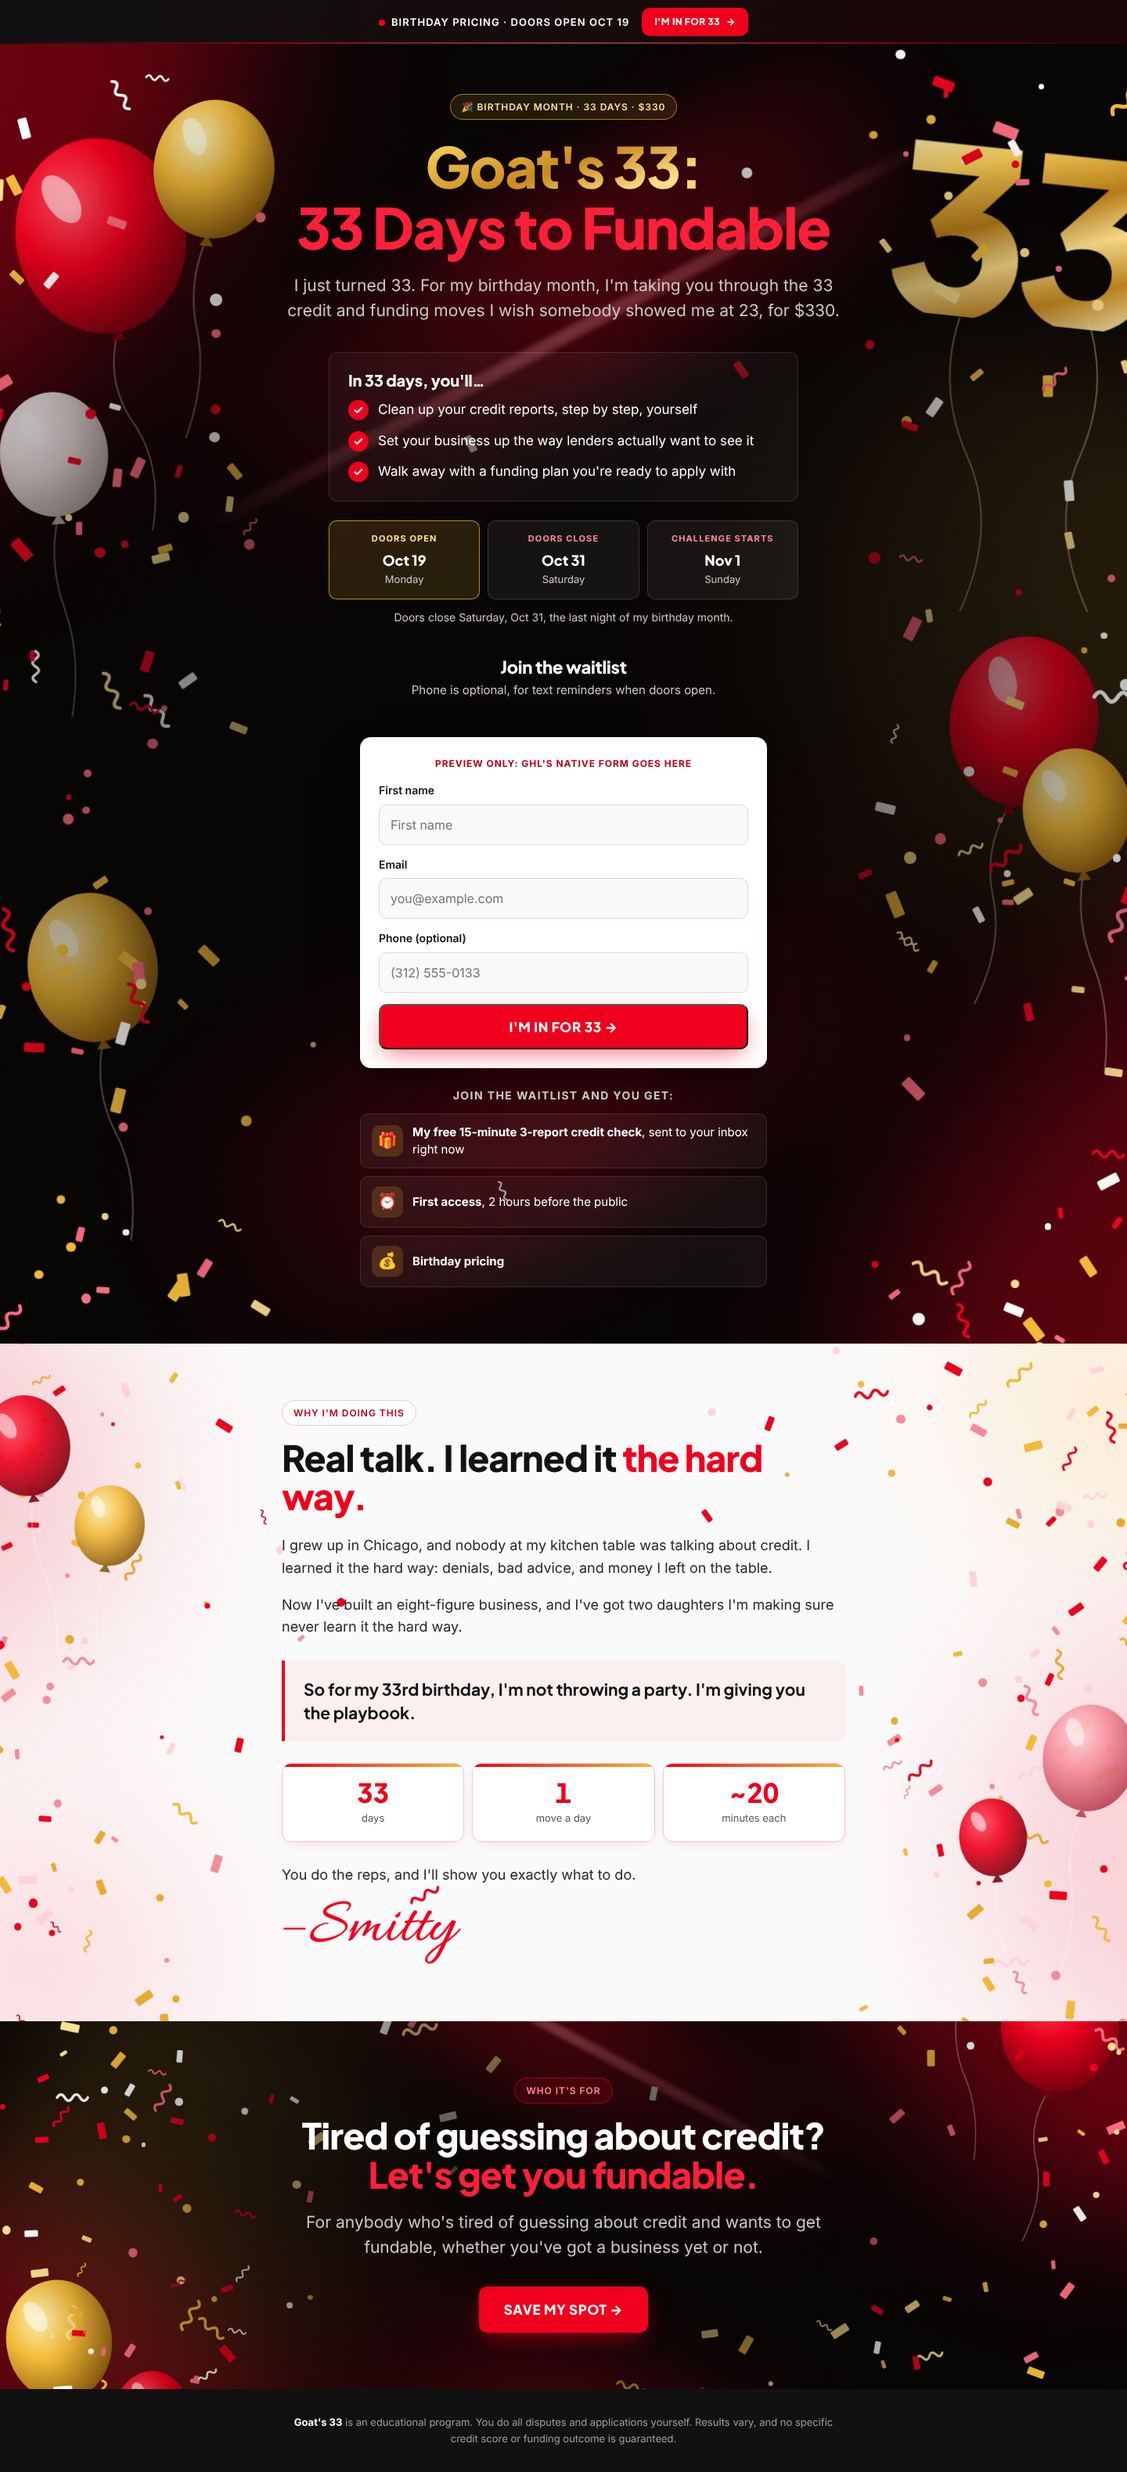
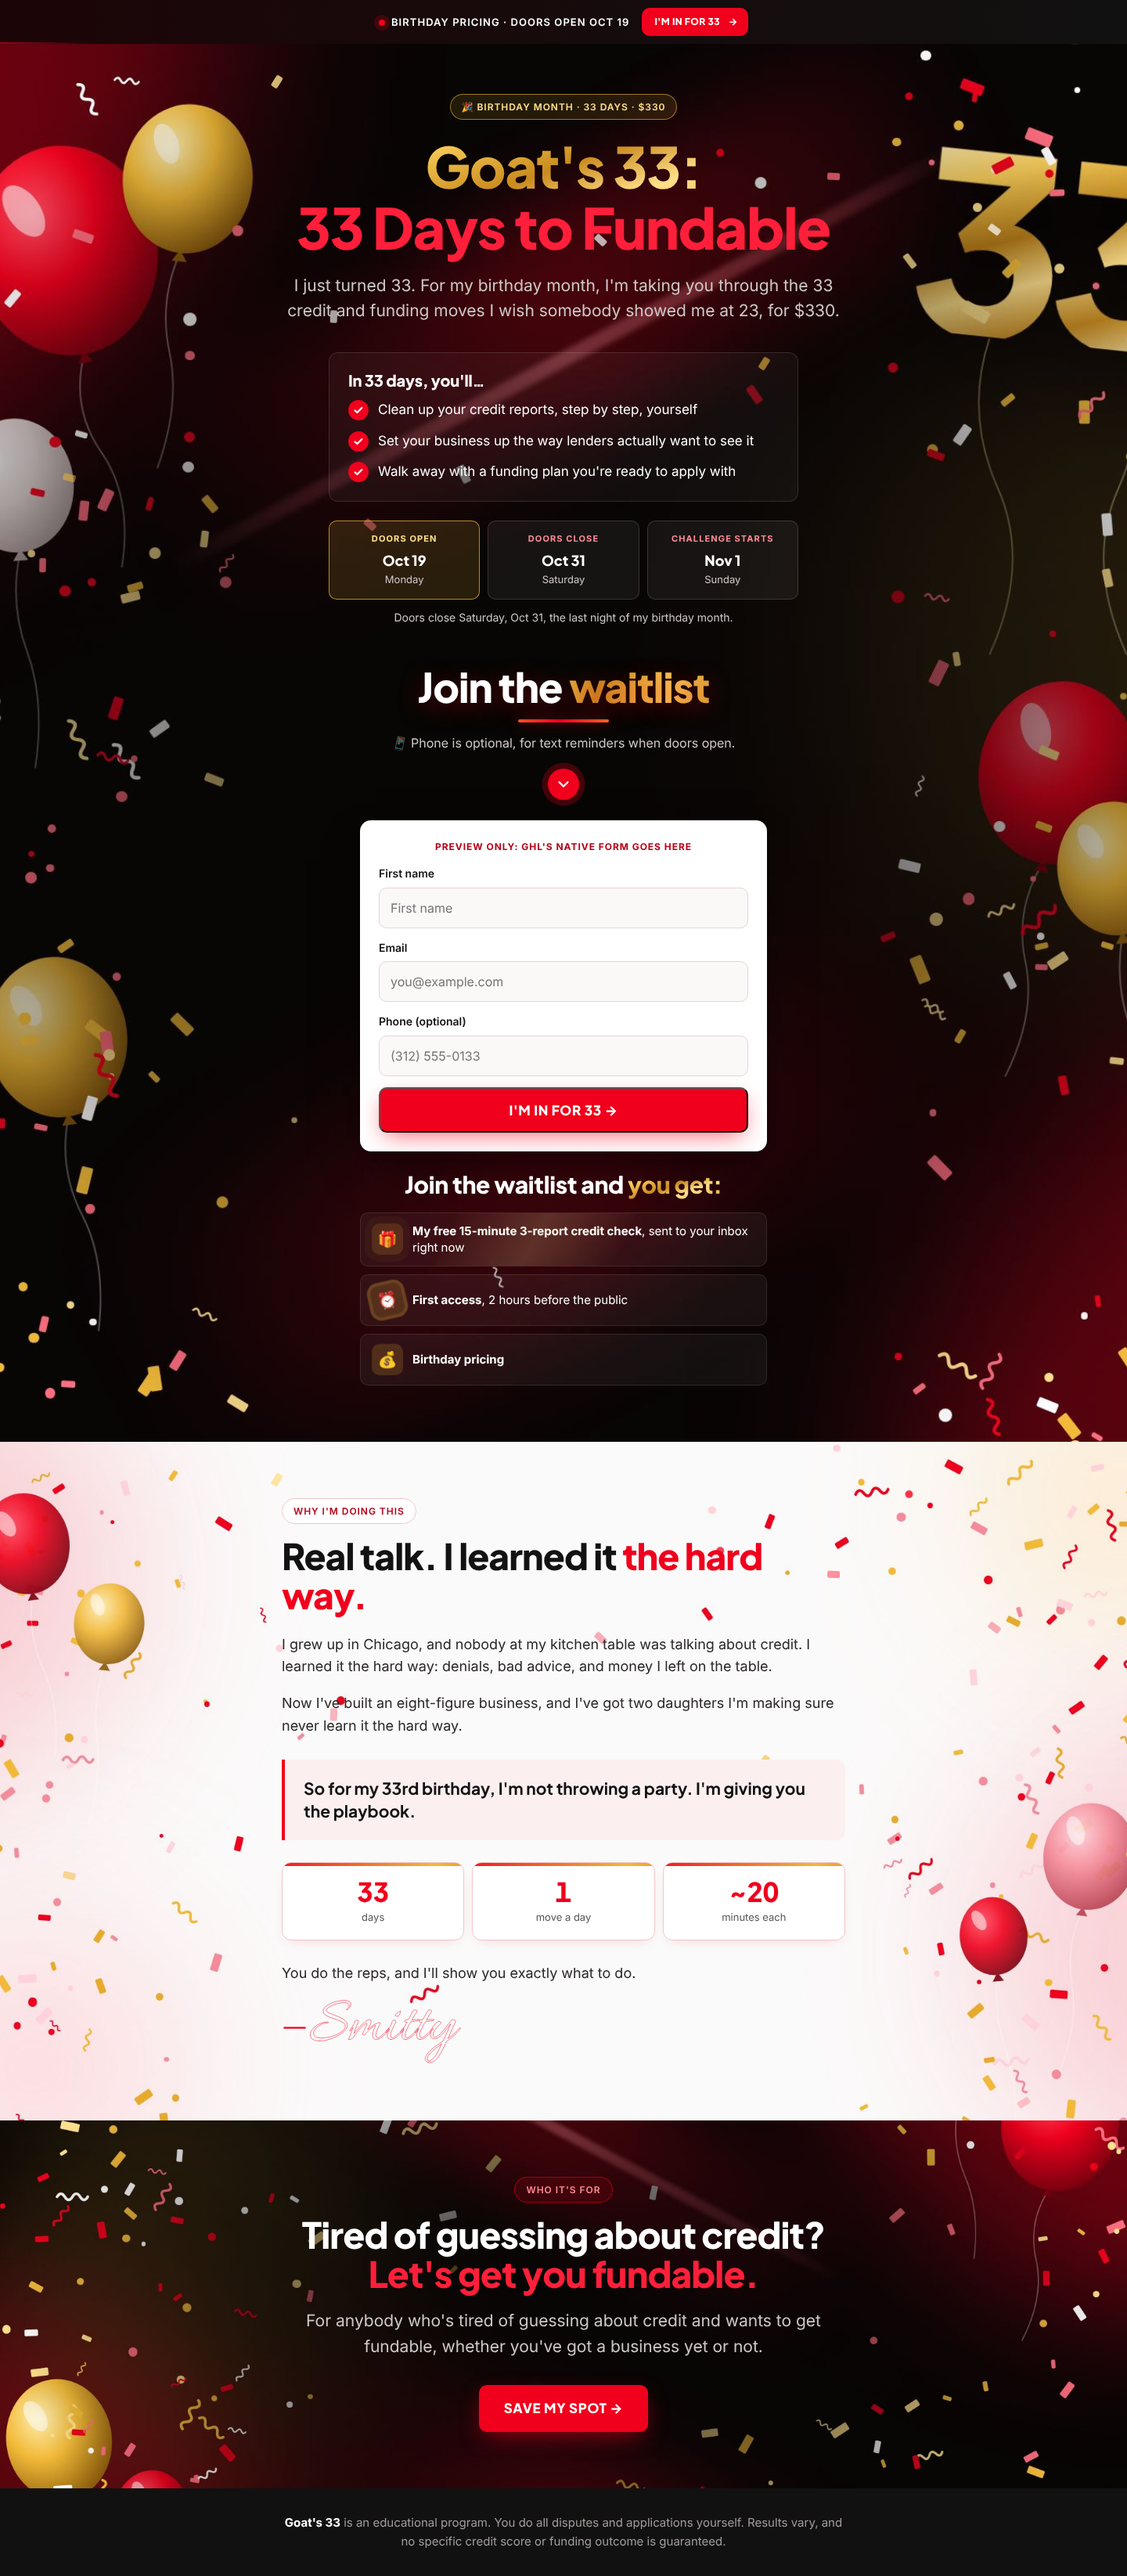
Split the Goat's 33 waitlist header into its own code block
02b-waitlist-header.html holds the "Join the waitlist" header that
used to sit at the end of 02-hero.html. Both stay in the hero section,
stacked above the GHL form; spacing and the #wf-register jump target
are unchanged.

Claude-Session: https://claude.ai/code/session_016EWm4T9j3p357VgxQ4fA9k

diff --git a/funnel/goats-33/preview/registration.html b/funnel/goats-33/preview/registration.html
@@ -120,7 +120,8 @@ html { scroll-behavior: smooth; }
 .wf-date__label { display: block; font-size: 11px; font-weight: 700; letter-spacing: .1em; text-transform: uppercase; color: #FF8A96; }
 .wf-date__day { display: block; font-family: var(--wf-head); font-weight: 800; font-size: 18px; margin-top: 4px; }
 .wf-date__dow { display: block; font-size: 13px; color: var(--wf-on-dark-muted); }
-.wf-formhead { margin-top: 48px; scroll-margin-top: 24px; }
+.wf-waitlist .wf__wrap { padding-top: 16px; padding-bottom: 16px; }
+.wf-formhead { scroll-margin-top: 24px; }
 .wf .wf-formhead__title { font-size: clamp(34px, 6vw, 52px); text-shadow: 0 6px 30px rgba(240,0,28,.35); }
 /* Moving gold foil shine on "waitlist" */
 .wf .wf-shine { background-image: linear-gradient(100deg, #C98A1E 0%, #F7CB57 20%, #FFF6D0 32%, #F7CB57 44%, #C98A1E 60%, #F7CB57 80%, #C98A1E 100%);
@@ -286,7 +287,7 @@ body{margin:0;background:#0A0606}
 </div>
 
 <section class="sec sec--hero"><!-- Goat's 33 · 02 HERO · GHL section background = backgrounds/hero-desktop.jpg (mobile: hero-mobile.jpg)
-     Put GHL's native FORM right after this element, then 03-waitlist-perks below the form. -->
+     Same section, stacked below this: 02b-waitlist-header, then GHL's native FORM, then 03-waitlist-perks. -->
 <div class="wf wf--dark wf-hero">
   <div class="wf-confetti" aria-hidden="true"><i></i><i></i><i></i><i></i><i></i><i></i><i></i><i></i><i></i><i></i><i></i><i></i><i></i><i></i><i></i><i></i><i></i><i></i><i></i><i></i></div>
   <div class="wf__wrap wf__center">
@@ -310,6 +311,13 @@ body{margin:0;background:#0A0606}
     </div>
     <p style="margin:12px 0 0;font-size:14px;color:var(--wf-on-dark-muted)">Doors close Saturday, Oct 31, the last night of my birthday month.</p>
 
+  </div>
+</div>
+<!-- Goat's 33 · 02b WAITLIST HEADER · same GHL section as the hero, right after 02-hero
+     Below it: GHL's native FORM, then 03-waitlist-perks.
+     The buttons on the page jump here (#wf-register). -->
+<div class="wf wf--dark wf-waitlist">
+  <div class="wf__wrap wf__center">
     <div class="wf-formhead" id="wf-register">
       <h2 class="wf-formhead__title">Join the <span class="wf__gold wf-shine">waitlist</span></h2>
       <span class="wf-formhead__bar" aria-hidden="true"></span>

diff --git a/funnel/goats-33/registration/02-hero.html b/funnel/goats-33/registration/02-hero.html
@@ -1,5 +1,5 @@
 <!-- Goat's 33 · 02 HERO · GHL section background = backgrounds/hero-desktop.jpg (mobile: hero-mobile.jpg)
-     Put GHL's native FORM right after this element, then 03-waitlist-perks below the form. -->
+     Same section, stacked below this: 02b-waitlist-header, then GHL's native FORM, then 03-waitlist-perks. -->
 <div class="wf wf--dark wf-hero">
   <div class="wf-confetti" aria-hidden="true"><i></i><i></i><i></i><i></i><i></i><i></i><i></i><i></i><i></i><i></i><i></i><i></i><i></i><i></i><i></i><i></i><i></i><i></i><i></i><i></i></div>
   <div class="wf__wrap wf__center">
@@ -23,11 +23,5 @@
     </div>
     <p style="margin:12px 0 0;font-size:14px;color:var(--wf-on-dark-muted)">Doors close Saturday, Oct 31, the last night of my birthday month.</p>
 
-    <div class="wf-formhead" id="wf-register">
-      <h2 class="wf-formhead__title">Join the <span class="wf__gold wf-shine">waitlist</span></h2>
-      <span class="wf-formhead__bar" aria-hidden="true"></span>
-      <p><span class="wf-formhead__ico" aria-hidden="true">📱</span> Phone is optional, for text reminders when doors open.</p>
-      <span class="wf-formhead__arrow" aria-hidden="true"><svg viewBox="0 0 24 24" fill="none" stroke="currentColor" stroke-width="2.5" stroke-linecap="round" stroke-linejoin="round"><path d="M6 9l6 6 6-6"/></svg></span>
-    </div>
   </div>
 </div>

diff --git a/funnel/goats-33/registration/02b-waitlist-header.html b/funnel/goats-33/registration/02b-waitlist-header.html
@@ -1,0 +1,13 @@
+<!-- Goat's 33 · 02b WAITLIST HEADER · same GHL section as the hero, right after 02-hero
+     Below it: GHL's native FORM, then 03-waitlist-perks.
+     The buttons on the page jump here (#wf-register). -->
+<div class="wf wf--dark wf-waitlist">
+  <div class="wf__wrap wf__center">
+    <div class="wf-formhead" id="wf-register">
+      <h2 class="wf-formhead__title">Join the <span class="wf__gold wf-shine">waitlist</span></h2>
+      <span class="wf-formhead__bar" aria-hidden="true"></span>
+      <p><span class="wf-formhead__ico" aria-hidden="true">📱</span> Phone is optional, for text reminders when doors open.</p>
+      <span class="wf-formhead__arrow" aria-hidden="true"><svg viewBox="0 0 24 24" fill="none" stroke="currentColor" stroke-width="2.5" stroke-linecap="round" stroke-linejoin="round"><path d="M6 9l6 6 6-6"/></svg></span>
+    </div>
+  </div>
+</div>

diff --git a/funnel/goats-33/registration/00-global-styles.css b/funnel/goats-33/registration/00-global-styles.css
@@ -118,7 +118,8 @@ html { scroll-behavior: smooth; }
 .wf-date__label { display: block; font-size: 11px; font-weight: 700; letter-spacing: .1em; text-transform: uppercase; color: #FF8A96; }
 .wf-date__day { display: block; font-family: var(--wf-head); font-weight: 800; font-size: 18px; margin-top: 4px; }
 .wf-date__dow { display: block; font-size: 13px; color: var(--wf-on-dark-muted); }
-.wf-formhead { margin-top: 48px; scroll-margin-top: 24px; }
+.wf-waitlist .wf__wrap { padding-top: 16px; padding-bottom: 16px; }
+.wf-formhead { scroll-margin-top: 24px; }
 .wf .wf-formhead__title { font-size: clamp(34px, 6vw, 52px); text-shadow: 0 6px 30px rgba(240,0,28,.35); }
 /* Moving gold foil shine on "waitlist" */
 .wf .wf-shine { background-image: linear-gradient(100deg, #C98A1E 0%, #F7CB57 20%, #FFF6D0 32%, #F7CB57 44%, #C98A1E 60%, #F7CB57 80%, #C98A1E 100%);

diff --git a/funnel/goats-33/src/build-preview.py b/funnel/goats-33/src/build-preview.py
@@ -26,7 +26,7 @@ page = f"""<!doctype html><html lang="en"><head><meta charset="utf-8">
 <meta name="viewport" content="width=device-width,initial-scale=1"><title>Goat's 33 preview</title>
 <style>{(root / "registration" / "00-global-styles.css").read_text()}</style>{CSS}</head><body>
 {blk("01")}
-<section class="sec sec--hero">{blk("02")}{FORM}{blk("03")}</section>
+<section class="sec sec--hero">{blk("02")}{blk("02b")}{FORM}{blk("03")}</section>
 <section class="sec sec--light">{blk("04")}</section>
 <section class="sec sec--dark">{blk("05")}</section>
 {blk("06")}

diff --git a/funnel/goats-33/README.md b/funnel/goats-33/README.md
@@ -25,15 +25,16 @@ For every section and row, set **padding to 0** and **full width**, because the 
 Each "Code" step below means a **Custom JS/HTML** element with that file pasted in.
 
 1. **Section: Top bar** → Code `01-top-bar.html`
-2. **Section: Hero** (background `hero-desktop.jpg`), one column, three elements stacked:
+2. **Section: Hero** (background `hero-desktop.jpg`), one column, four elements stacked:
    1. Code `02-hero.html`
-   2. **GHL Form element** (your waitlist form, see step 4)
-   3. Code `03-waitlist-perks.html`
+   2. Code `02b-waitlist-header.html`
+   3. **GHL Form element** (your waitlist form, see step 4)
+   4. Code `03-waitlist-perks.html`
 3. **Section: Why** (background `light-section.jpg`) → Code `04-why.html`
 4. **Section: Who it's for** (background `dark-section.jpg`) → Code `05-who-its-for.html`
 5. **Section: Footer** → Code `06-footer.html`
 
-The "I'm In For 33 →" button in the top bar and the "Save My Spot →" button jump to the form. They target `#wf-register`, which sits at the end of the hero block, right above the form. Nothing to configure.
+The "I'm In For 33 →" button in the top bar and the "Save My Spot →" button jump to the form. They target `#wf-register`, the waitlist header right above the form. Nothing to configure.
 
 ## 4. Style the GHL form to match
 Fields: **First name** (required), **Email** (required), **Phone** (optional; label it "Phone (optional, for text reminders when doors open)").
